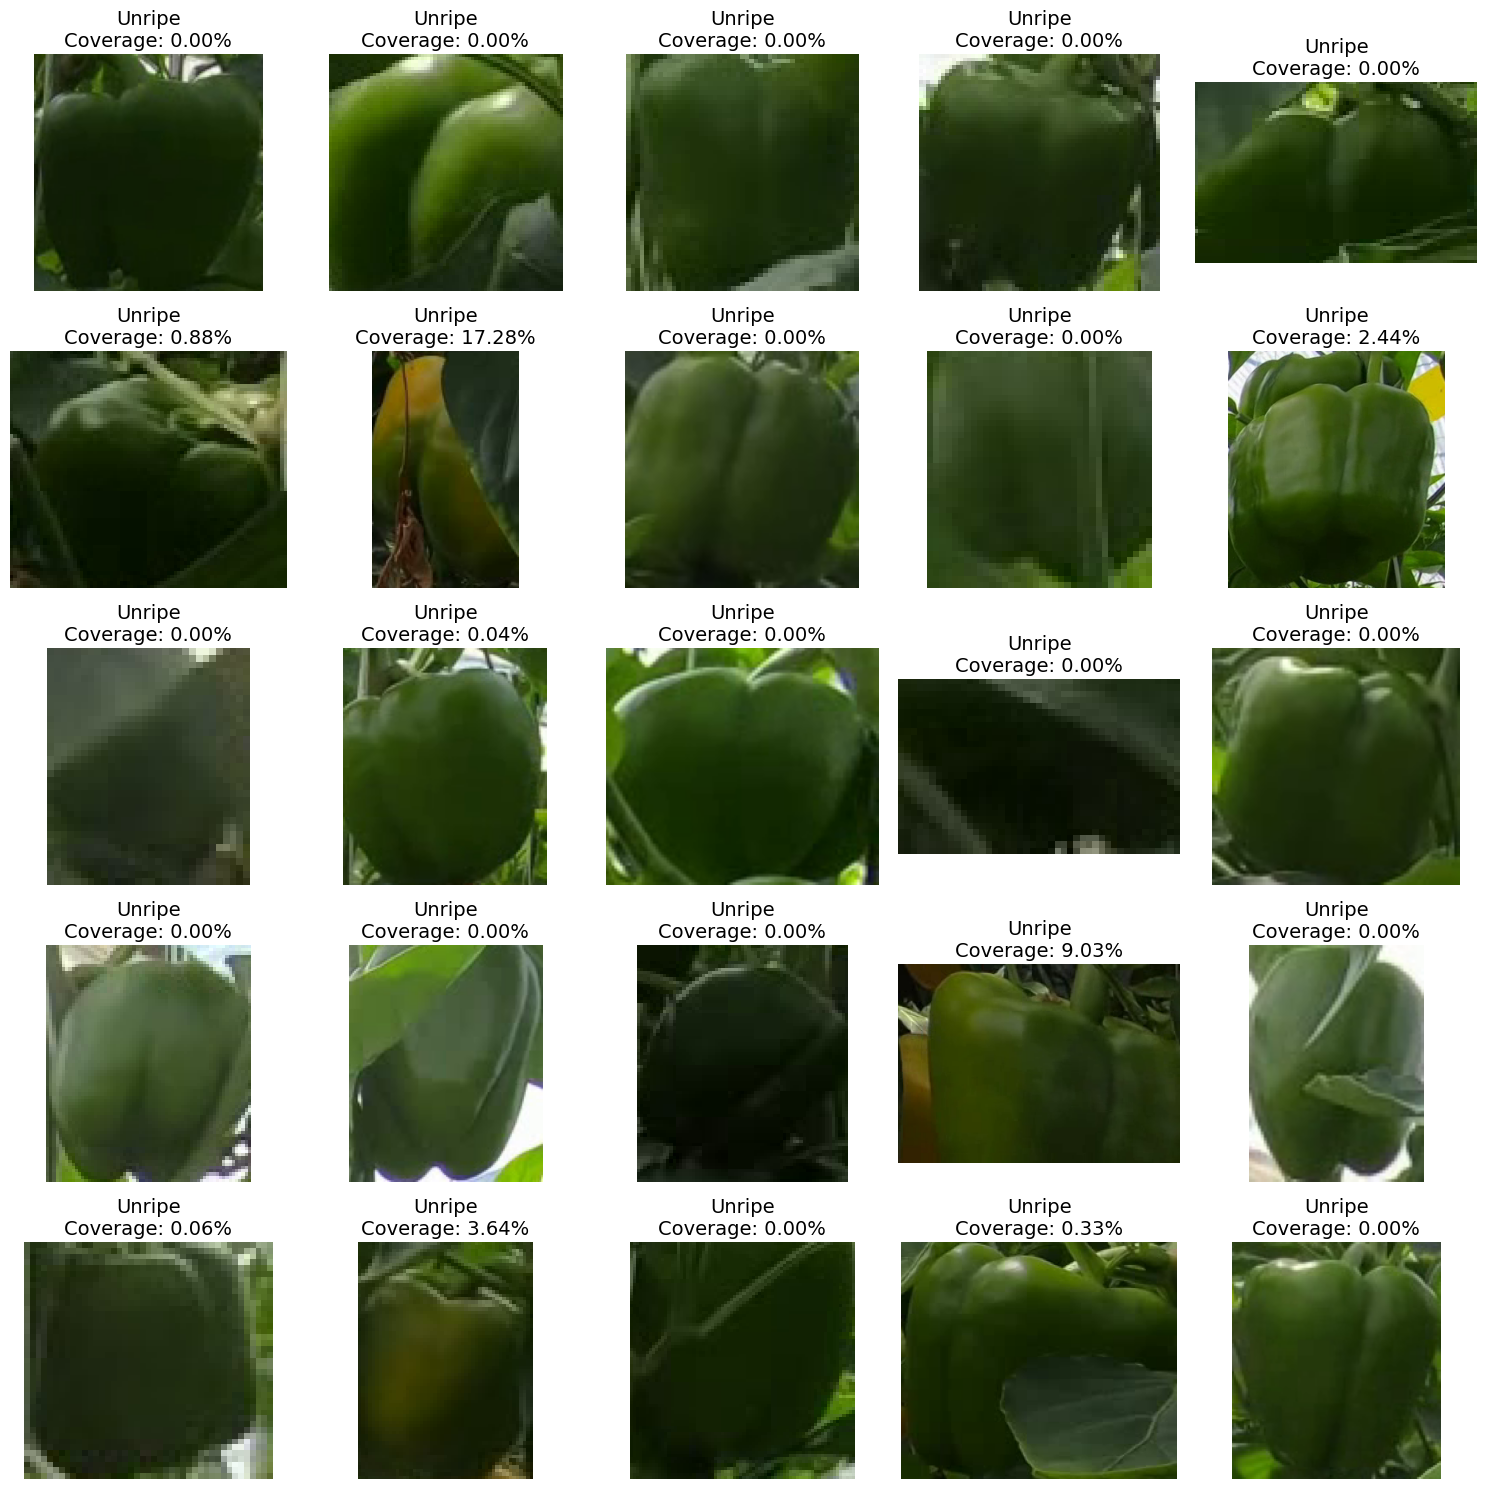
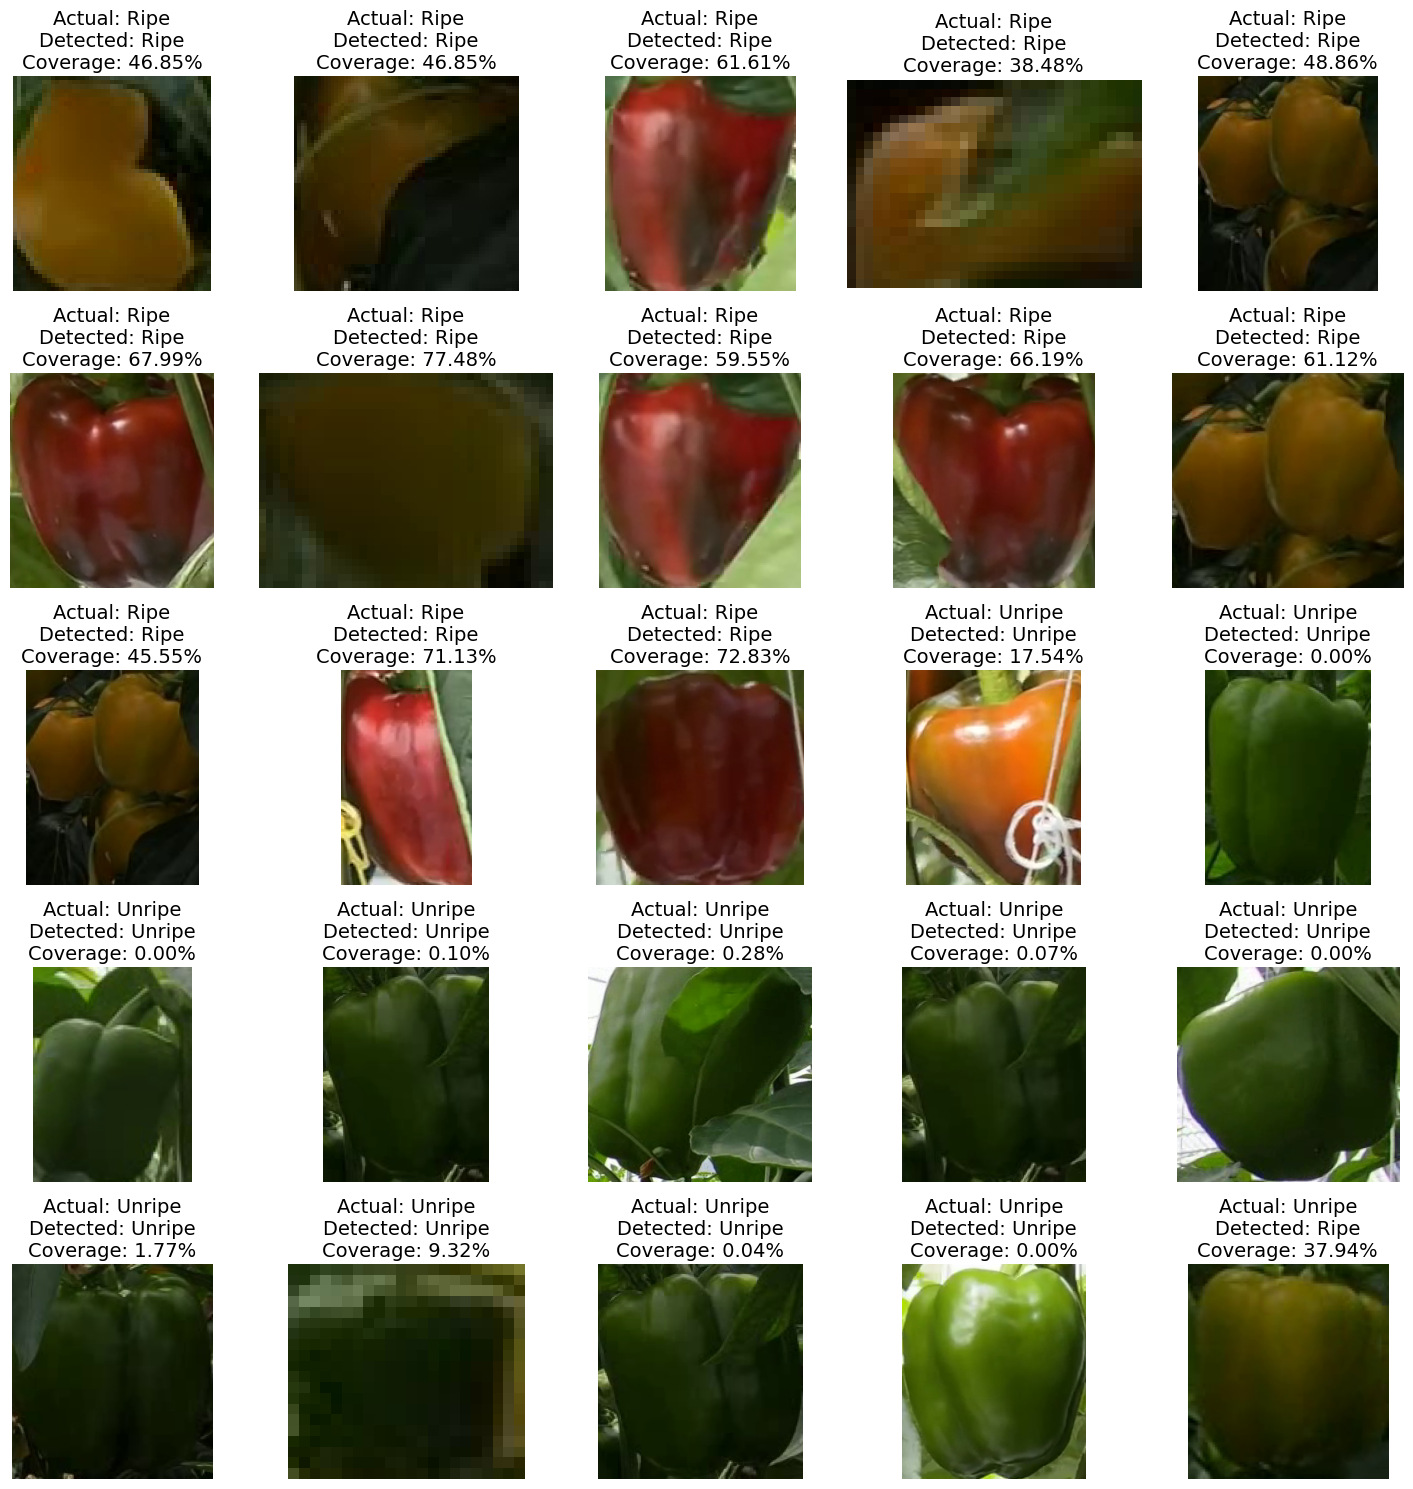
Classify detections readme complete

diff --git a/Classify/RGB_Ripeness.py b/Classify/RGB_Ripeness.py
@@ -3,21 +3,26 @@ import numpy as np
 import os
 import matplotlib.pyplot as plt
 from tqdm import tqdm
+import argparse
 
 """
 This script demonstrates how to classify the ripeness of fruits in images using OpenCV and NumPy.
 The script loads images of fruits, calculates the ripeness based on color, and displays the results.
+
+Example usage: python RGB_Ripeness.py base_dir save_dir --fig_size 15 15 --font_size 14
 """
+def parse_arguments():
+    parser = argparse.ArgumentParser(description="Classify the ripeness of fruits in images.")
+    parser.add_argument('--input_dir', type=str, help="Base directory containing 'ripe' and 'unripe' subdirectories.")
+    parser.add_argument('--output_dir', type=str, help="Directory where the output images and results will be saved.")
+    return parser.parse_args()
 
 def calculate_ripeness(image_path):
     """Calculate the ripeness of a fruit in an image."""
     # Load the image
     image = cv2.imread(image_path)
-    gamma_corrected = adjust_gamma(image, gamma=5) # You may need to experiment with the gamma value
+    gamma_corrected = adjust_gamma(image, gamma=5)
     hsv = cv2.cvtColor(gamma_corrected, cv2.COLOR_BGR2HSV)
-
-    # Convert to HSV
-    hsv = cv2.cvtColor(image, cv2.COLOR_BGR2HSV)
 
     # Split into channels
     h, s, v = cv2.split(hsv)
@@ -32,11 +37,10 @@ def calculate_ripeness(image_path):
     # Define color ranges for yellow and red in HSV
     yellow_lower = np.array([20, 100, 25])
     yellow_upper = np.array([30, 255, 255])
-    red_lower1 = np.array([0, 25, 25])   # Red hue range lower part
-    red_upper1 = np.array([10, 255, 255])  # Slightly reduce the upper hue to avoid picking up orange tones
-    red_lower2 = np.array([170, 25, 25])  # Red hue range upper part
-    red_upper2 = np.array([180, 255, 255]) 
-
+    red_lower1 = np.array([0, 25, 25])
+    red_upper1 = np.array([10, 255, 255])
+    red_lower2 = np.array([170, 25, 25])
+    red_upper2 = np.array([180, 255, 255])
 
     # Threshold the CLAHE-modified HSV image to get only yellow and red colors
     mask_yellow = cv2.inRange(hsv_clahe, yellow_lower, yellow_upper)
@@ -61,59 +65,55 @@ def adjust_gamma(image, gamma=1.0):
     table = np.array([((i / 255.0) ** invGamma) * 255 for i in np.arange(0, 256)]).astype("uint8")
     return cv2.LUT(image, table)
 
-def process_directory(directory):
+def process_directory(directory, actual_status):
     """Process all images in a directory and return the results."""
     images = []
-    predictions = []
     for filename in tqdm(os.listdir(directory), desc="Processing images"):
         if filename.lower().endswith(('.png', '.jpg', '.jpeg')):
             image_path = os.path.join(directory, filename)
             is_ripe, coverage = calculate_ripeness(image_path)
-            img = cv2.cvtColor(cv2.imread(image_path), cv2.COLOR_BGR2RGB)  # Convert color for matplotlib
-            images.append((img, is_ripe, coverage))
+            img = cv2.cvtColor(cv2.imread(image_path), cv2.COLOR_BGR2RGB)
+            images.append((img, is_ripe, coverage, filename, actual_status))
     return images
 
 def plot_and_save_results(base_dir, save_dir, fig_size=(15, 15), font_size=14):
     """Plot and save the results of the classification."""
-    ripe_images = process_directory(os.path.join(base_dir, 'ripe'))
-    unripe_images = process_directory(os.path.join(base_dir, 'unripe'))
+    ripe_images = process_directory(os.path.join(base_dir, 'ripe'), 'Ripe')
+    unripe_images = process_directory(os.path.join(base_dir, 'unripe'), 'Unripe')
 
     total_images = len(ripe_images) + len(unripe_images)
     cols, rows = 5, 5
     max_images_per_batch = cols * rows
 
-    # Make sure the directory exists where we will save the individual images
     os.makedirs(save_dir, exist_ok=True)
-    """Uncomment this block to save the images in batches."""
-    # for batch_index in range(0, total_images, max_images_per_batch):
-    #     fig, axes = plt.subplots(nrows=rows, ncols=cols, figsize=fig_size)
-    #     axes = axes.ravel()
+    for batch_index in range(0, total_images, max_images_per_batch):
+        fig, axes = plt.subplots(nrows=rows, ncols=cols, figsize=fig_size)
+        axes = axes.ravel()
 
-    #     # Get the current batch of images
-    #     current_batch = (ripe_images + unripe_images)[batch_index:batch_index + max_images_per_batch]
+        current_batch = (ripe_images + unripe_images)[batch_index:batch_index + max_images_per_batch]
 
-    #     for i in range(max_images_per_batch):
-    #         if i < len(current_batch):
-    #             img, is_ripe, coverage = current_batch[i]
-    #             axes[i].imshow(img)
-    #             ripe_status = 'Ripe' if is_ripe else 'Unripe'
-    #             title = f'{ripe_status}\nCoverage: {coverage:.2f}%'
-    #             axes[i].set_title(title, fontsize=font_size)
-    #         axes[i].axis('off')
+        for i in range(max_images_per_batch):
+            if i < len(current_batch):
+                img, is_ripe, coverage, filename, actual_status = current_batch[i]
+                axes[i].imshow(img)
+                detected_status = 'Ripe' if is_ripe else 'Unripe'
+                title = f'Actual: {actual_status}\nDetected: {detected_status}\nCoverage: {coverage:.2f}%'
+                axes[i].set_title(title, fontsize=font_size)
+            axes[i].axis('off')
 
-    #     plt.subplots_adjust(hspace=0.5, wspace=0.3)
-    #     plt.tight_layout()
+        plt.subplots_adjust(hspace=0.5, wspace=0.3)
+        plt.tight_layout()
 
-    #     # Save this batch's figure
-    #     fig_filename = f'classification_results_{batch_index // max_images_per_batch + 1}.png'
-    #     plt.savefig(os.path.join(save_dir, fig_filename), bbox_inches='tight')
-    #     plt.close(fig)
+        fig_filename = f'RGB_classification_results_{batch_index // max_images_per_batch + 1}.png'
+        plt.savefig(os.path.join(save_dir, fig_filename), bbox_inches='tight')
+        plt.close(fig)
 
-    # Calculate success rates
     ripe_success = sum(pred[1] for pred in ripe_images) / len(ripe_images) if ripe_images else 0
     unripe_success = sum(not pred[1] for pred in unripe_images) / len(unripe_images) if unripe_images else 0
     print(f"Success rate for ripe detection: {ripe_success * 100:.2f}%")
     print(f"Success rate for unripe detection: {unripe_success * 100:.2f}%")
 
-# Example usage
-plot_and_save_results('Classify/RGB_Classify_Full', 'runs/rgb_classify_set2')
+if __name__ == "__main__":
+    args = parse_arguments()
+
+    plot_and_save_results(args.input_dir, args.output_dir)

diff --git a/Classify/NN_Ripeness.py b/Classify/NN_Ripeness.py
@@ -1,0 +1,73 @@
+import cv2
+from ultralytics import YOLO
+import numpy as np
+import os
+import argparse
+import matplotlib.pyplot as plt
+from tqdm import tqdm
+
+def parse_arguments():
+    parser = argparse.ArgumentParser(description='Classification of Images')
+    parser.add_argument('--input_dir', required=True, help='Path to the base directory containing "ripe" and "unripe" subdirectories')
+    parser.add_argument('--ClassifyModel', required=True, help='Path to the classification model')
+    parser.add_argument('--output_dir', required=True, help='Directory to save the output results')
+    return parser.parse_args()
+
+def classify_image(image_path, classification_model):
+    image = cv2.imread(image_path)
+    results = classification_model(image)
+    if results and results[0].probs is not None:
+        top1 = results[0].probs.top1
+        top1_confidence = results[0].probs.top1conf.item()
+        classification = results[0].names[top1]
+        return classification, top1_confidence
+    return None, 0
+
+def process_directory(directory, actual_status, classification_model, output_dir):
+    os.makedirs(output_dir, exist_ok=True)
+    images = []
+    for filename in tqdm(os.listdir(directory), desc=f"Processing {actual_status} images"):
+        if filename.lower().endswith(('.png', '.jpg', '.jpeg')):
+            image_path = os.path.join(directory, filename)
+            classification, confidence = classify_image(image_path, classification_model)
+            image = cv2.imread(image_path)
+            images.append((image, classification, confidence, filename, actual_status))
+
+    return images
+
+def plot_and_save_results(base_dir, output_dir, fig_size=(15, 15), font_size=14):
+    ripe_images = process_directory(os.path.join(base_dir, 'ripe'), 'Ripe', classification_model, output_dir)
+    unripe_images = process_directory(os.path.join(base_dir, 'unripe'), 'Unripe', classification_model, output_dir)
+
+    total_images = len(ripe_images) + len(unripe_images)
+    cols, rows = 5, 5
+    max_images_per_batch = cols * rows
+
+    for batch_index in range(0, total_images, max_images_per_batch):
+        fig, axes = plt.subplots(nrows=rows, ncols=cols, figsize=fig_size)
+        axes = axes.ravel()
+
+        current_batch = (ripe_images + unripe_images)[batch_index:batch_index + max_images_per_batch]
+
+        for i in range(max_images_per_batch):
+            if i < len(current_batch):
+                img, classification, confidence, filename, actual_status = current_batch[i]
+                axes[i].imshow(cv2.cvtColor(img, cv2.COLOR_BGR2RGB))
+                detected_status = classification
+                title = f'Actual: {actual_status}\nDetected: {detected_status}\nConfidence: {confidence:.2f}%'
+                axes[i].set_title(title, fontsize=font_size)
+            axes[i].axis('off')
+
+        plt.tight_layout()
+        batch_output_path = os.path.join(output_dir, f'NN_classification_results_{batch_index // max_images_per_batch + 1}.png')
+        plt.savefig(batch_output_path, bbox_inches='tight')
+        plt.close(fig)
+
+if __name__ == "__main__":
+    args = parse_arguments()
+    
+    # Load the YOLOv8 classification model
+    classification_model = YOLO(args.ClassifyModel)
+    
+    # Plot and save results
+    plot_and_save_results(args.input_dir, args.output_dir)

diff --git a/README.md b/README.md
@@ -7,25 +7,24 @@
 
 <div align="center">
   <a href="https://github.com/Pecako2001/BellPepperHarvesting/stargazers">
-    <img src="https://img.shields.io/github/stars/your-username/your-repository.svg?style=for-the-badge" alt="Stargazers">
+    <img src="https://img.shields.io/github/stars/Pecako2001/BellPepperHarvesting.svg?label=Stars&style=flat-square" alt="Stargazers">
   </a>
   <a href="https://github.com/Pecako2001/BellPepperHarvesting/issues">
-    <img src="https://img.shields.io/github/issues/your-username/your-repository.svg?style=for-the-badge" alt="Issues">
+    <img src="https://img.shields.io/github/issues/Pecako2001/BellPepperHarvesting.svg?label=Issues&style=flat-square" alt="Issues">
   </a>
   <a href="https://github.com/Pecako2001/BellPepperHarvesting/network/members">
-    <img src="https://img.shields.io/github/forks/your-username/your-repository.svg?style=for-the-badge" alt="Forks">
+    <img src="https://img.shields.io/github/forks/Pecako2001/BellPepperHarvesting.svg?label=Forks&style=flat-square" alt="Forks">
   </a>
-  <a href="https://github.com/Pecako2001/BellPepperHarvesting/blob/main/LICENSE">
-    <img src="https://img.shields.io/github/license/your-username/your-repository.svg?style=for-the-badge" alt="License">
+  <a href="https://opensource.org/licenses/MIT">
+    <img src="https://img.shields.io/badge/License-MIT-yellow.svg?style=flat-square" alt="License">
   </a>
 </div>
-
+<br><br>
 
 <h1 align="center">Exploring automated bell pepper harvesting</h1>
 <div align="center">
 This research was conducted as part of the A-System minor at Fontys University of Applied Sciences. The project explores advancements in automated bell pepper detection, evaluating existing methods and investigating innovative techniques using AI technologies. The primary focus is on enhancing the precision and efficiency of bell pepper detection in automated harvesting systems.
 </div>
-</br>
 <div align="center">
 
 ## Connect with Me
@@ -66,8 +65,14 @@ All of these questions are answered inside my research report, for more informat
 Next, we will examine the system design proposal. After addressing all the research questions and analyzing their answers, I have determined what I believe to be the optimal and most viable solution for future automated bell pepper harvesting. This design considers the conclusions drawn from the research and aims to implement a system that can be realistically developed and deployed.
 
 <div align="center">
-
+<img src="./images/SystemDesign.png">
 </div>
+
+## Detections
+For the detections of the bell peppers I have tested multiple neural network frameworks and version to look at the difference inside there performance. The conclusion was drawn that YOLOv8 is currently the best performing model with the most documentation on how to fine tune this model. 
+
+
+For more information on the detections of bell peppers view: [Classification](./Detectons/Readme.md)
 
 ## Ripeness Determination
 
@@ -83,15 +88,6 @@ An alternative method based on the color analysis of bell peppers. This algorith
 
 For more information on the determination of the ripeness of the bellpepper view: [Classification](./Classify/Readme.md)
 
-## Detections
-| Model       | Box Precision | Accuracy | mAP50 |
-|-------------|---------------|----------|-------|
-| YOLOV5-seg  | 62.8%         | 50.0%    |  -    |
-| YOLOV8-seg  | 63.0%         | 51.5%    |  -    |
-| YOLOV9-seg  | 54.1%         | 53.7%    |  -    |
-| GELAN-seg   | 71.6%         | 53.2%    |  -    |
-
-For more information on the detections of bell peppers view: [Classification](./Detectons/Readme.md)
 ## 3D Estimation
 Placeholder for 3D estimation details and images.
 

diff --git a/Classify/Readme.md b/Classify/Readme.md
@@ -9,6 +9,7 @@ This project explores the use of YOLOv8 models for determining the ripeness of b
 ## Ripeness Classification
 This approach leverages YOLOv8 models to determine fruit ripeness. The models are trained on a dataset split into two classes, ripe and unripe. Here are the details on model performance and setup:
 
+![NN output performance](../images/NN_results.png)
 ### Model Performance
 | Model        | Accuracy Top-1 | Accuracy Ripe | Accuracy Unripe |
 |--------------|----------------|---------------|-----------------|
@@ -37,7 +38,65 @@ An alternative method based on color analysis of the bell peppers. The RGB appro
 | All Sets     | 98.35%              | 85.39%                |
 
 ![RGB Model Performance](../images/Classify_Results.png)
+## Usage Classifcation Scripts
+Below is the explenation on how to use the provided code `RGB_Ripeness.py` with how to set it up and use it.
+### Directory Structure
 
+Organize your images in the following structure:
+
+```
+base_dir/
+├── ripe/
+│   ├── image1.jpg
+│   ├── image2.jpg
+│   └── ...
+└── unripe/
+    ├── image1.jpg
+    ├── image2.jpg
+    └── ...
+```
+
+### Running the Script for RGB Classifcation
+
+1. Place your images in the `ripe` and `unripe` directories inside the `base_dir`.
+
+2. Run the script with the following command:
+
+```bash
+python RGB_Ripeness.py --base_dir base_dir --save_dir save_dir
+```
+
+- `--base_dir` is the directory containing the `ripe` and `unripe` subdirectories.
+- `--save_dir` is the directory where the output images and results will be saved.
+
+### Running the Script for NN Classifcation
+
+1. Place your images in the `ripe` and `unripe` directories inside the `base_dir`.
+
+2. Run the script with the following command:
+
+```bash
+python NN_Ripeness.py --input_dir base_dir --ClassifyModel ClassBest.pt --output_dir output_dir
+```
+
+- `--input_dir` is the base directory containing the `ripe` and `unripe` subdirectories.
+- `--ClassifyModel` is the path to the classification model.
+- `--output_dir` is the directory where the output images and results will be saved.
+
+## Explanation
+
+### Functions RGB
+
+- `calculate_ripeness(image_path)`: Calculates the ripeness of a fruit in an image.
+- `adjust_gamma(image, gamma)`: Adjusts the gamma of an image.
+- `process_directory(directory, actual_status)`: Processes all images in a directory and returns the results.
+- `plot_and_save_results(base_dir, save_dir, fig_size, font_size)`: Plots and saves the results of the classification.
+
+### Funtions NN
+
+- `classify_image(image_path, classification_model)`: Classifies an image using the classification model.
+- `process_directory(directory, actual_status, classification_model, output_dir)`: Processes all images in a directory and returns the results.
+- `plot_and_save_results(base_dir, output_dir, fig_size, font_size)`: Plots and saves the results of the classification.
 ## Conclusion
 While the classification model provides robust results across varying lighting conditions, the RGB method achieves perfect results under consistent lighting. The comparison highlights the strengths and limitations of each approach, guiding future enhancements and implementations.
 

diff --git a/SystemDesign/Readme.md b/SystemDesign/Readme.md
@@ -12,7 +12,7 @@ This script demonstrates how to perform object segmentation and classification o
 #### Usage
 
 ```sh
-python video_segmentation_classification.py --video input_video.mp4 --ClassifyModel ClassBest.pt --SegModel SegBest.pt --output output_video.mp4 --show
+python video_segmentation_bell_pepper.py --video input_video.mp4 --ClassifyModel ClassBest.pt --SegModel SegBest.pt --output output_video.mp4 --show
 ```
 
 #### Arguments
@@ -62,7 +62,7 @@ This script demonstrates how to perform object segmentation and classification o
 #### Usage
 
 ```sh
-python video_segmentation_classification_test.py --video input_video.mp4 --ClassifyModel ClassBest.pt --SegModel SegBest.pt --output output_video.mp4 --show
+python video_segmentation_all_classes.py --video input_video.mp4 --ClassifyModel ClassBest.pt --SegModel SegBest.pt --output output_video.mp4 --show
 ```
 
 #### Arguments

diff --git a/Detection/Readme.md b/Detection/Readme.md
@@ -1,0 +1,8 @@
+For the detections of the systems there have been tested several models to look at the performance of these models
+
+| Model       | Box Precision | Accuracy | mAP50 |
+|-------------|---------------|----------|-------|
+| YOLOV5-seg  | 62.8%         | 50.0%    |  -    |
+| YOLOV8-seg  | 63.0%         | 51.5%    |  -    |
+| YOLOV9-seg  | 54.1%         | 53.7%    |  -    |
+| GELAN-seg   | 71.6%         | 53.2%    |  -    |
